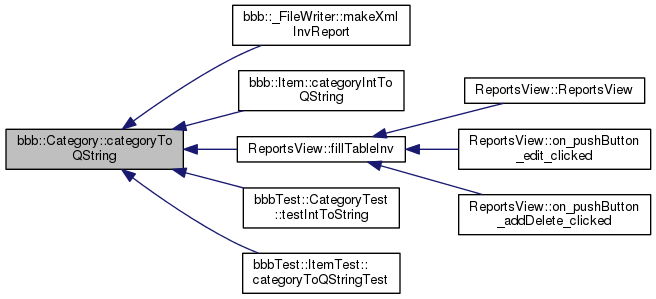
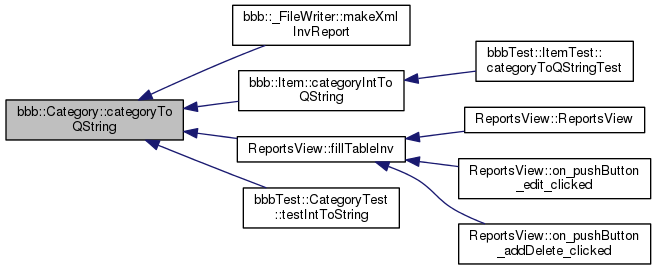
Deploy code docs to GitHub Pages Travis build: 312
Commit: 4980d7e0c2fe70d791ef1c138dd9000fb7c70c8c

diff --git a/html/itemtest_8h_source.html b/html/itemtest_8h_source.html
@@ -120,7 +120,7 @@ var searchBox = new SearchBox("searchBox", "search",false,'Search');
 <div class="line"><a name="l00043"></a><span class="lineno">   43</span>&#160;    <span class="comment">//&amp;&amp;&amp;&amp;&amp;&amp;&amp;&amp;&amp;&amp;&amp;&amp;&amp;&amp;&amp;&amp;&amp;&amp;&amp;&amp;&amp;&amp;&amp;&amp;&amp;&amp;&amp;&amp;&amp;</span></div>
 <div class="line"><a name="l00047"></a><span class="lineno">   47</span>&#160;<span class="comment"></span>    <span class="keywordtype">void</span> <a class="code" href="classbbb_test_1_1_item_test.html#a774572b8788dc0ce5b7e9b94983da38e">categoryToQStringTest_data</a>();</div>
 <div class="line"><a name="l00048"></a><span class="lineno">   48</span>&#160;    <span class="comment">//&amp;&amp;&amp;&amp;&amp;&amp;&amp;&amp;&amp;&amp;&amp;&amp;&amp;&amp;&amp;&amp;&amp;&amp;&amp;&amp;&amp;&amp;&amp;&amp;&amp;&amp;&amp;&amp;&amp;</span></div>
-<div class="line"><a name="l00052"></a><span class="lineno">   52</span>&#160;<span class="comment"></span>    <span class="keywordtype">void</span> <a class="code" href="classbbb_test_1_1_item_test.html#a3f29750899687585478be213162b5669">categoryToQStringTest</a>(<span class="keywordtype">int</span> cat);</div>
+<div class="line"><a name="l00052"></a><span class="lineno">   52</span>&#160;<span class="comment"></span>    <span class="keywordtype">void</span> <a class="code" href="classbbb_test_1_1_item_test.html#ad56dd983ad38e75637db6617fbbf4e2c">categoryToQStringTest</a>();</div>
 <div class="line"><a name="l00053"></a><span class="lineno">   53</span>&#160;    <span class="comment">//************************************************************</span></div>
 <div class="line"><a name="l00054"></a><span class="lineno">   54</span>&#160;</div>
 <div class="line"><a name="l00055"></a><span class="lineno">   55</span>&#160;}; <span class="comment">// end class</span></div>
@@ -131,11 +131,11 @@ var searchBox = new SearchBox("searchBox", "search",false,'Search');
 <div class="line"><a name="l00060"></a><span class="lineno">   60</span>&#160;<span class="preprocessor">#endif // ITEMTEST_H</span></div>
 <div class="ttc" id="classbbb_test_1_1_item_test_html_a779886c6635cb473cbf762d7becd6a9d"><div class="ttname"><a href="classbbb_test_1_1_item_test.html#a779886c6635cb473cbf762d7becd6a9d">bbbTest::ItemTest::constructorTest</a></div><div class="ttdeci">void constructorTest()</div><div class="ttdoc">Tests that the constructor sets the correct vals. </div><div class="ttdef"><b>Definition:</b> itemtest.cpp:28</div></div>
 <div class="ttc" id="classbbb_test_1_1_item_test_html_ad3cd85b2a9c1a0ecc9826531aa95e5fe"><div class="ttname"><a href="classbbb_test_1_1_item_test.html#ad3cd85b2a9c1a0ecc9826531aa95e5fe">bbbTest::ItemTest::testTest</a></div><div class="ttdeci">void testTest()</div><div class="ttdoc">Makes sure QTest, .yml an travis.ci are working. </div><div class="ttdef"><b>Definition:</b> itemtest.cpp:12</div></div>
-<div class="ttc" id="classbbb_test_1_1_item_test_html_a3f29750899687585478be213162b5669"><div class="ttname"><a href="classbbb_test_1_1_item_test.html#a3f29750899687585478be213162b5669">bbbTest::ItemTest::categoryToQStringTest</a></div><div class="ttdeci">void categoryToQStringTest(int cat)</div><div class="ttdoc">Tests the Category to string fx. </div><div class="ttdef"><b>Definition:</b> itemtest.cpp:53</div></div>
 <div class="ttc" id="classbbb_test_1_1_item_test_html"><div class="ttname"><a href="classbbb_test_1_1_item_test.html">bbbTest::ItemTest</a></div><div class="ttdoc">Contains the tests for the Item class. </div><div class="ttdef"><b>Definition:</b> itemtest.h:19</div></div>
 <div class="ttc" id="classbbb_test_1_1_item_test_html_a310a8cf4a45615e897a3f3cceefc03e8"><div class="ttname"><a href="classbbb_test_1_1_item_test.html#a310a8cf4a45615e897a3f3cceefc03e8">bbbTest::ItemTest::ItemTest</a></div><div class="ttdeci">ItemTest()</div><div class="ttdoc">Default Constructor. </div><div class="ttdef"><b>Definition:</b> itemtest.cpp:5</div></div>
-<div class="ttc" id="classbbb_test_1_1_item_test_html_a774572b8788dc0ce5b7e9b94983da38e"><div class="ttname"><a href="classbbb_test_1_1_item_test.html#a774572b8788dc0ce5b7e9b94983da38e">bbbTest::ItemTest::categoryToQStringTest_data</a></div><div class="ttdeci">void categoryToQStringTest_data()</div><div class="ttdoc">Test data for Category to string fx. </div><div class="ttdef"><b>Definition:</b> itemtest.cpp:38</div></div>
+<div class="ttc" id="classbbb_test_1_1_item_test_html_a774572b8788dc0ce5b7e9b94983da38e"><div class="ttname"><a href="classbbb_test_1_1_item_test.html#a774572b8788dc0ce5b7e9b94983da38e">bbbTest::ItemTest::categoryToQStringTest_data</a></div><div class="ttdeci">void categoryToQStringTest_data()</div><div class="ttdoc">Test data for Category to string fx. </div><div class="ttdef"><b>Definition:</b> itemtest.cpp:44</div></div>
 <div class="ttc" id="item_8h_html"><div class="ttname"><a href="item_8h.html">item.h</a></div></div>
+<div class="ttc" id="classbbb_test_1_1_item_test_html_ad56dd983ad38e75637db6617fbbf4e2c"><div class="ttname"><a href="classbbb_test_1_1_item_test.html#ad56dd983ad38e75637db6617fbbf4e2c">bbbTest::ItemTest::categoryToQStringTest</a></div><div class="ttdeci">void categoryToQStringTest()</div><div class="ttdoc">Tests the Category to string fx. </div><div class="ttdef"><b>Definition:</b> itemtest.cpp:59</div></div>
 </div><!-- fragment --></div><!-- contents -->
 <!-- start footer part -->
 <hr class="footer"/><address class="footer"><small>

diff --git a/html/classbbb_test_1_1_item_test.html b/html/classbbb_test_1_1_item_test.html
@@ -133,9 +133,9 @@ Private Slots</h2></td></tr>
 <tr class="memitem:a774572b8788dc0ce5b7e9b94983da38e"><td class="memItemLeft" align="right" valign="top">void&#160;</td><td class="memItemRight" valign="bottom"><a class="el" href="classbbb_test_1_1_item_test.html#a774572b8788dc0ce5b7e9b94983da38e">categoryToQStringTest_data</a> ()</td></tr>
 <tr class="memdesc:a774572b8788dc0ce5b7e9b94983da38e"><td class="mdescLeft">&#160;</td><td class="mdescRight">Test data for Category to string fx.  <a href="#a774572b8788dc0ce5b7e9b94983da38e">More...</a><br/></td></tr>
 <tr class="separator:a774572b8788dc0ce5b7e9b94983da38e"><td class="memSeparator" colspan="2">&#160;</td></tr>
-<tr class="memitem:a3f29750899687585478be213162b5669"><td class="memItemLeft" align="right" valign="top">void&#160;</td><td class="memItemRight" valign="bottom"><a class="el" href="classbbb_test_1_1_item_test.html#a3f29750899687585478be213162b5669">categoryToQStringTest</a> (int cat)</td></tr>
-<tr class="memdesc:a3f29750899687585478be213162b5669"><td class="mdescLeft">&#160;</td><td class="mdescRight">Tests the Category to string fx.  <a href="#a3f29750899687585478be213162b5669">More...</a><br/></td></tr>
-<tr class="separator:a3f29750899687585478be213162b5669"><td class="memSeparator" colspan="2">&#160;</td></tr>
+<tr class="memitem:ad56dd983ad38e75637db6617fbbf4e2c"><td class="memItemLeft" align="right" valign="top">void&#160;</td><td class="memItemRight" valign="bottom"><a class="el" href="classbbb_test_1_1_item_test.html#ad56dd983ad38e75637db6617fbbf4e2c">categoryToQStringTest</a> ()</td></tr>
+<tr class="memdesc:ad56dd983ad38e75637db6617fbbf4e2c"><td class="mdescLeft">&#160;</td><td class="mdescRight">Tests the Category to string fx.  <a href="#ad56dd983ad38e75637db6617fbbf4e2c">More...</a><br/></td></tr>
+<tr class="separator:ad56dd983ad38e75637db6617fbbf4e2c"><td class="memSeparator" colspan="2">&#160;</td></tr>
 </table>
 <a name="details" id="details"></a><h2 class="groupheader">Detailed Description</h2>
 <div class="textblock"><p>Contains the tests for the Item class. </p>
@@ -162,7 +162,7 @@ Private Slots</h2></td></tr>
 </div>
 </div>
 <h2 class="groupheader">Member Function Documentation</h2>
-<a class="anchor" id="a3f29750899687585478be213162b5669"></a>
+<a class="anchor" id="ad56dd983ad38e75637db6617fbbf4e2c"></a>
 <div class="memitem">
 <div class="memproto">
 <table class="mlabels">
@@ -172,8 +172,7 @@ Private Slots</h2></td></tr>
         <tr>
           <td class="memname">void ItemTest::categoryToQStringTest </td>
           <td>(</td>
-          <td class="paramtype">int&#160;</td>
-          <td class="paramname"><em>cat</em></td><td>)</td>
+          <td class="paramname"></td><td>)</td>
           <td></td>
         </tr>
       </table>
@@ -191,9 +190,9 @@ Private Slots</h2></td></tr>
 <p><div class="dynheader">
 Here is the call graph for this function:</div>
 <div class="dyncontent">
-<div class="center"><img src="classbbb_test_1_1_item_test_a3f29750899687585478be213162b5669_cgraph.png" border="0" usemap="#classbbb_test_1_1_item_test_a3f29750899687585478be213162b5669_cgraph" alt=""/></div>
-<map name="classbbb_test_1_1_item_test_a3f29750899687585478be213162b5669_cgraph" id="classbbb_test_1_1_item_test_a3f29750899687585478be213162b5669_cgraph">
-<area shape="rect" id="node2" href="classbbb_1_1_category.html#ad7de659617e688faaa44e4ba448b40fe" title="Turns enum to string. " alt="" coords="211,5,389,46"/></map>
+<div class="center"><img src="classbbb_test_1_1_item_test_ad56dd983ad38e75637db6617fbbf4e2c_cgraph.png" border="0" usemap="#classbbb_test_1_1_item_test_ad56dd983ad38e75637db6617fbbf4e2c_cgraph" alt=""/></div>
+<map name="classbbb_test_1_1_item_test_ad56dd983ad38e75637db6617fbbf4e2c_cgraph" id="classbbb_test_1_1_item_test_ad56dd983ad38e75637db6617fbbf4e2c_cgraph">
+<area shape="rect" id="node2" href="classbbb_1_1_item.html#a0f7e005482f6e845c8a9f293ee702650" title="Uses the toString method in catagory class. " alt="" coords="211,5,376,46"/><area shape="rect" id="node3" href="classbbb_1_1_category.html#ad7de659617e688faaa44e4ba448b40fe" title="Turns enum to string. " alt="" coords="425,5,602,46"/></map>
 </div>
 </p>
 

diff --git a/html/classbbb_1_1_category.html b/html/classbbb_1_1_category.html
@@ -226,7 +226,7 @@ Here is the caller graph for this function:</div>
 <div class="dyncontent">
 <div class="center"><img src="classbbb_1_1_category_ad7de659617e688faaa44e4ba448b40fe_icgraph.png" border="0" usemap="#classbbb_1_1_category_ad7de659617e688faaa44e4ba448b40fe_icgraph" alt=""/></div>
 <map name="classbbb_1_1_category_ad7de659617e688faaa44e4ba448b40fe_icgraph" id="classbbb_1_1_category_ad7de659617e688faaa44e4ba448b40fe_icgraph">
-<area shape="rect" id="node2" href="classbbb_1_1___file_writer.html#af6d37d4db77fb49e8c7169694d28317a" title="Writes Inventory Report to xml file. " alt="" coords="233,5,410,46"/><area shape="rect" id="node3" href="classbbb_1_1_item.html#a0f7e005482f6e845c8a9f293ee702650" title="Uses the toString method in catagory class. " alt="" coords="239,70,404,111"/><area shape="rect" id="node4" href="class_reports_view.html#aadf024949bd7935f99e9fd8194edb181" title="Fills the inventory table from the database. " alt="" coords="237,136,405,163"/><area shape="rect" id="node8" href="classbbb_test_1_1_category_test.html#a9ee3cfeeb3ef2f0d2ba25f5e8736fd03" title="Tests int to QString conversions. " alt="" coords="243,187,399,229"/><area shape="rect" id="node9" href="classbbb_test_1_1_item_test.html#a3f29750899687585478be213162b5669" title="Tests the Category to string fx. " alt="" coords="243,253,400,294"/><area shape="rect" id="node5" href="class_reports_view.html#a3386fadacc4633e21c1759df01a45efd" title="ReportsView::ReportsView" alt="" coords="465,77,645,104"/><area shape="rect" id="node6" href="class_reports_view.html#a5fd0369f81da5afd34b31e35c6583a59" title="ReportsView::on_pushButton\l_edit_clicked" alt="" coords="459,129,651,170"/><area shape="rect" id="node7" href="class_reports_view.html#a4ff9516632dfee7b7affa091b131d151" title="ReportsView::on_pushButton\l_addDelete_clicked" alt="" coords="459,194,651,235"/></map>
+<area shape="rect" id="node2" href="classbbb_1_1___file_writer.html#af6d37d4db77fb49e8c7169694d28317a" title="Writes Inventory Report to xml file. " alt="" coords="233,5,410,46"/><area shape="rect" id="node3" href="classbbb_1_1_item.html#a0f7e005482f6e845c8a9f293ee702650" title="Uses the toString method in catagory class. " alt="" coords="239,70,404,111"/><area shape="rect" id="node5" href="class_reports_view.html#aadf024949bd7935f99e9fd8194edb181" title="Fills the inventory table from the database. " alt="" coords="237,136,405,163"/><area shape="rect" id="node9" href="classbbb_test_1_1_category_test.html#a9ee3cfeeb3ef2f0d2ba25f5e8736fd03" title="Tests int to QString conversions. " alt="" coords="243,187,399,229"/><area shape="rect" id="node4" href="classbbb_test_1_1_item_test.html#ad56dd983ad38e75637db6617fbbf4e2c" title="Tests the Category to string fx. " alt="" coords="476,41,633,82"/><area shape="rect" id="node6" href="class_reports_view.html#a3386fadacc4633e21c1759df01a45efd" title="ReportsView::ReportsView" alt="" coords="465,107,645,133"/><area shape="rect" id="node7" href="class_reports_view.html#a5fd0369f81da5afd34b31e35c6583a59" title="ReportsView::on_pushButton\l_edit_clicked" alt="" coords="459,158,651,199"/><area shape="rect" id="node8" href="class_reports_view.html#a4ff9516632dfee7b7affa091b131d151" title="ReportsView::on_pushButton\l_addDelete_clicked" alt="" coords="459,223,651,265"/></map>
 </div>
 </p>
 

diff --git a/html/classbbb_test_1_1_item_test-members.html b/html/classbbb_test_1_1_item_test-members.html
@@ -95,7 +95,7 @@ var searchBox = new SearchBox("searchBox", "search",false,'Search');
 
 <p>This is the complete list of members for <a class="el" href="classbbb_test_1_1_item_test.html">bbbTest::ItemTest</a>, including all inherited members.</p>
 <table class="directory">
-  <tr class="even"><td class="entry"><a class="el" href="classbbb_test_1_1_item_test.html#a3f29750899687585478be213162b5669">categoryToQStringTest</a>(int cat)</td><td class="entry"><a class="el" href="classbbb_test_1_1_item_test.html">bbbTest::ItemTest</a></td><td class="entry"><span class="mlabel">private</span><span class="mlabel">slot</span></td></tr>
+  <tr class="even"><td class="entry"><a class="el" href="classbbb_test_1_1_item_test.html#ad56dd983ad38e75637db6617fbbf4e2c">categoryToQStringTest</a>()</td><td class="entry"><a class="el" href="classbbb_test_1_1_item_test.html">bbbTest::ItemTest</a></td><td class="entry"><span class="mlabel">private</span><span class="mlabel">slot</span></td></tr>
   <tr><td class="entry"><a class="el" href="classbbb_test_1_1_item_test.html#a774572b8788dc0ce5b7e9b94983da38e">categoryToQStringTest_data</a>()</td><td class="entry"><a class="el" href="classbbb_test_1_1_item_test.html">bbbTest::ItemTest</a></td><td class="entry"><span class="mlabel">private</span><span class="mlabel">slot</span></td></tr>
   <tr class="even"><td class="entry"><a class="el" href="classbbb_test_1_1_item_test.html#a779886c6635cb473cbf762d7becd6a9d">constructorTest</a>()</td><td class="entry"><a class="el" href="classbbb_test_1_1_item_test.html">bbbTest::ItemTest</a></td><td class="entry"><span class="mlabel">private</span><span class="mlabel">slot</span></td></tr>
   <tr><td class="entry"><a class="el" href="classbbb_test_1_1_item_test.html#a310a8cf4a45615e897a3f3cceefc03e8">ItemTest</a>()</td><td class="entry"><a class="el" href="classbbb_test_1_1_item_test.html">bbbTest::ItemTest</a></td><td class="entry"></td></tr>

diff --git a/html/search/functions_2.js b/html/search/functions_2.js
@@ -4,7 +4,7 @@ var searchData=
   ['categoryinttoqstring',['categoryIntToQString',['../classbbb_1_1_item.html#a0f7e005482f6e845c8a9f293ee702650',1,'bbb::Item']]],
   ['categorytest',['CategoryTest',['../classbbb_test_1_1_category_test.html#a85e76fad3ded73c068e9f5f0e5666a92',1,'bbbTest::CategoryTest']]],
   ['categorytoqstring',['categoryToQString',['../classbbb_1_1_category.html#ad7de659617e688faaa44e4ba448b40fe',1,'bbb::Category::categoryToQString(Category::categoryType cat)'],['../classbbb_1_1_category.html#aee6f34ea5864f751d92b25e95af1c1de',1,'bbb::Category::categoryToQString(int cat)']]],
-  ['categorytoqstringtest',['categoryToQStringTest',['../classbbb_test_1_1_item_test.html#a3f29750899687585478be213162b5669',1,'bbbTest::ItemTest']]],
+  ['categorytoqstringtest',['categoryToQStringTest',['../classbbb_test_1_1_item_test.html#ad56dd983ad38e75637db6617fbbf4e2c',1,'bbbTest::ItemTest']]],
   ['categorytoqstringtest_5fdata',['categoryToQStringTest_data',['../classbbb_test_1_1_item_test.html#a774572b8788dc0ce5b7e9b94983da38e',1,'bbbTest::ItemTest']]],
   ['cleartable',['clearTable',['../class_reports_view.html#adc130acc6c8471c37855f233ed72b54f',1,'ReportsView']]],
   ['constructortest',['constructorTest',['../classbbb_test_1_1_item_test.html#a779886c6635cb473cbf762d7becd6a9d',1,'bbbTest::ItemTest']]]

diff --git a/html/search/all_3.js b/html/search/all_3.js
@@ -11,7 +11,7 @@ var searchData=
   ['categorytest_2ecpp',['categorytest.cpp',['../categorytest_8cpp.html',1,'']]],
   ['categorytest_2eh',['categorytest.h',['../categorytest_8h.html',1,'']]],
   ['categorytoqstring',['categoryToQString',['../classbbb_1_1_category.html#ad7de659617e688faaa44e4ba448b40fe',1,'bbb::Category::categoryToQString(Category::categoryType cat)'],['../classbbb_1_1_category.html#aee6f34ea5864f751d92b25e95af1c1de',1,'bbb::Category::categoryToQString(int cat)']]],
-  ['categorytoqstringtest',['categoryToQStringTest',['../classbbb_test_1_1_item_test.html#a3f29750899687585478be213162b5669',1,'bbbTest::ItemTest']]],
+  ['categorytoqstringtest',['categoryToQStringTest',['../classbbb_test_1_1_item_test.html#ad56dd983ad38e75637db6617fbbf4e2c',1,'bbbTest::ItemTest']]],
   ['categorytoqstringtest_5fdata',['categoryToQStringTest_data',['../classbbb_test_1_1_item_test.html#a774572b8788dc0ce5b7e9b94983da38e',1,'bbbTest::ItemTest']]],
   ['categorytype',['categoryType',['../classbbb_1_1_category.html#ae6842fe56f139f41a9e7cf4b0a8d98da',1,'bbb::Category']]],
   ['cleartable',['clearTable',['../class_reports_view.html#adc130acc6c8471c37855f233ed72b54f',1,'ReportsView']]],

diff --git a/html/directoryhandler_8h_source.html b/html/directoryhandler_8h_source.html
@@ -94,7 +94,7 @@ var searchBox = new SearchBox("searchBox", "search",false,'Search');
 <div class="line"><a name="l00002"></a><span class="lineno">    2</span>&#160;<span class="preprocessor"></span><span class="preprocessor">#define DIRECTORYHANDLER_H</span></div>
 <div class="line"><a name="l00003"></a><span class="lineno">    3</span>&#160;<span class="preprocessor"></span></div>
 <div class="line"><a name="l00004"></a><span class="lineno">    4</span>&#160;<span class="preprocessor">#include &lt;QDir&gt;</span></div>
-<div class="line"><a name="l00005"></a><span class="lineno">    5</span>&#160;<span class="preprocessor">#include &lt;QFile&gt;</span>;</div>
+<div class="line"><a name="l00005"></a><span class="lineno">    5</span>&#160;<span class="preprocessor">#include &lt;QFile&gt;</span></div>
 <div class="line"><a name="l00006"></a><span class="lineno">    6</span>&#160;<span class="preprocessor">#include &lt;QString&gt;</span></div>
 <div class="line"><a name="l00007"></a><span class="lineno">    7</span>&#160;</div>
 <div class="line"><a name="l00008"></a><span class="lineno">    8</span>&#160;<span class="preprocessor">#include &lt;QStandardPaths&gt;</span></div>

diff --git a/html/test.html b/html/test.html
@@ -123,7 +123,7 @@ var searchBox = new SearchBox("searchBox", "search",false,'Search');
 <dt><a class="anchor" id="_test000014"></a>Class <a class="el" href="classbbb_test_1_1_item_test.html">bbbTest::ItemTest</a>  </dt>
 <dd><dl class="section author"><dt>Author</dt><dd>Bob Baker  </dd></dl>
 </dd>
-<dt><a class="anchor" id="_test000018"></a>Member <a class="el" href="classbbb_test_1_1_item_test.html#a3f29750899687585478be213162b5669">bbbTest::ItemTest::categoryToQStringTest</a>  (int cat)</dt>
+<dt><a class="anchor" id="_test000018"></a>Member <a class="el" href="classbbb_test_1_1_item_test.html#ad56dd983ad38e75637db6617fbbf4e2c">bbbTest::ItemTest::categoryToQStringTest</a>  ()</dt>
 <dd><dl class="section author"><dt>Author</dt><dd>Bob Baker  </dd></dl>
 </dd>
 <dt><a class="anchor" id="_test000017"></a>Member <a class="el" href="classbbb_test_1_1_item_test.html#a774572b8788dc0ce5b7e9b94983da38e">bbbTest::ItemTest::categoryToQStringTest_data</a>  ()</dt>

diff --git a/html/classbbb_1_1_item.html b/html/classbbb_1_1_item.html
@@ -204,6 +204,15 @@ Here is the call graph for this function:</div>
 </div>
 </p>
 
+<p><div class="dynheader">
+Here is the caller graph for this function:</div>
+<div class="dyncontent">
+<div class="center"><img src="classbbb_1_1_item_a0f7e005482f6e845c8a9f293ee702650_icgraph.png" border="0" usemap="#classbbb_1_1_item_a0f7e005482f6e845c8a9f293ee702650_icgraph" alt=""/></div>
+<map name="classbbb_1_1_item_a0f7e005482f6e845c8a9f293ee702650_icgraph" id="classbbb_1_1_item_a0f7e005482f6e845c8a9f293ee702650_icgraph">
+<area shape="rect" id="node2" href="classbbb_test_1_1_item_test.html#ad56dd983ad38e75637db6617fbbf4e2c" title="Tests the Category to string fx. " alt="" coords="219,5,376,46"/></map>
+</div>
+</p>
+
 </div>
 </div>
 <h2 class="groupheader">Member Data Documentation</h2>

diff --git a/html/functions.html b/html/functions.html
@@ -180,7 +180,7 @@ var searchBox = new SearchBox("searchBox", "search",false,'Search');
 : <a class="el" href="classbbb_1_1_category.html#ad7de659617e688faaa44e4ba448b40fe">bbb::Category</a>
 </li>
 <li>categoryToQStringTest()
-: <a class="el" href="classbbb_test_1_1_item_test.html#a3f29750899687585478be213162b5669">bbbTest::ItemTest</a>
+: <a class="el" href="classbbb_test_1_1_item_test.html#ad56dd983ad38e75637db6617fbbf4e2c">bbbTest::ItemTest</a>
 </li>
 <li>categoryToQStringTest_data()
 : <a class="el" href="classbbb_test_1_1_item_test.html#a774572b8788dc0ce5b7e9b94983da38e">bbbTest::ItemTest</a>

diff --git a/html/functions_func.html b/html/functions_func.html
@@ -152,7 +152,7 @@ var searchBox = new SearchBox("searchBox", "search",false,'Search');
 : <a class="el" href="classbbb_1_1_category.html#ad7de659617e688faaa44e4ba448b40fe">bbb::Category</a>
 </li>
 <li>categoryToQStringTest()
-: <a class="el" href="classbbb_test_1_1_item_test.html#a3f29750899687585478be213162b5669">bbbTest::ItemTest</a>
+: <a class="el" href="classbbb_test_1_1_item_test.html#ad56dd983ad38e75637db6617fbbf4e2c">bbbTest::ItemTest</a>
 </li>
 <li>categoryToQStringTest_data()
 : <a class="el" href="classbbb_test_1_1_item_test.html#a774572b8788dc0ce5b7e9b94983da38e">bbbTest::ItemTest</a>
